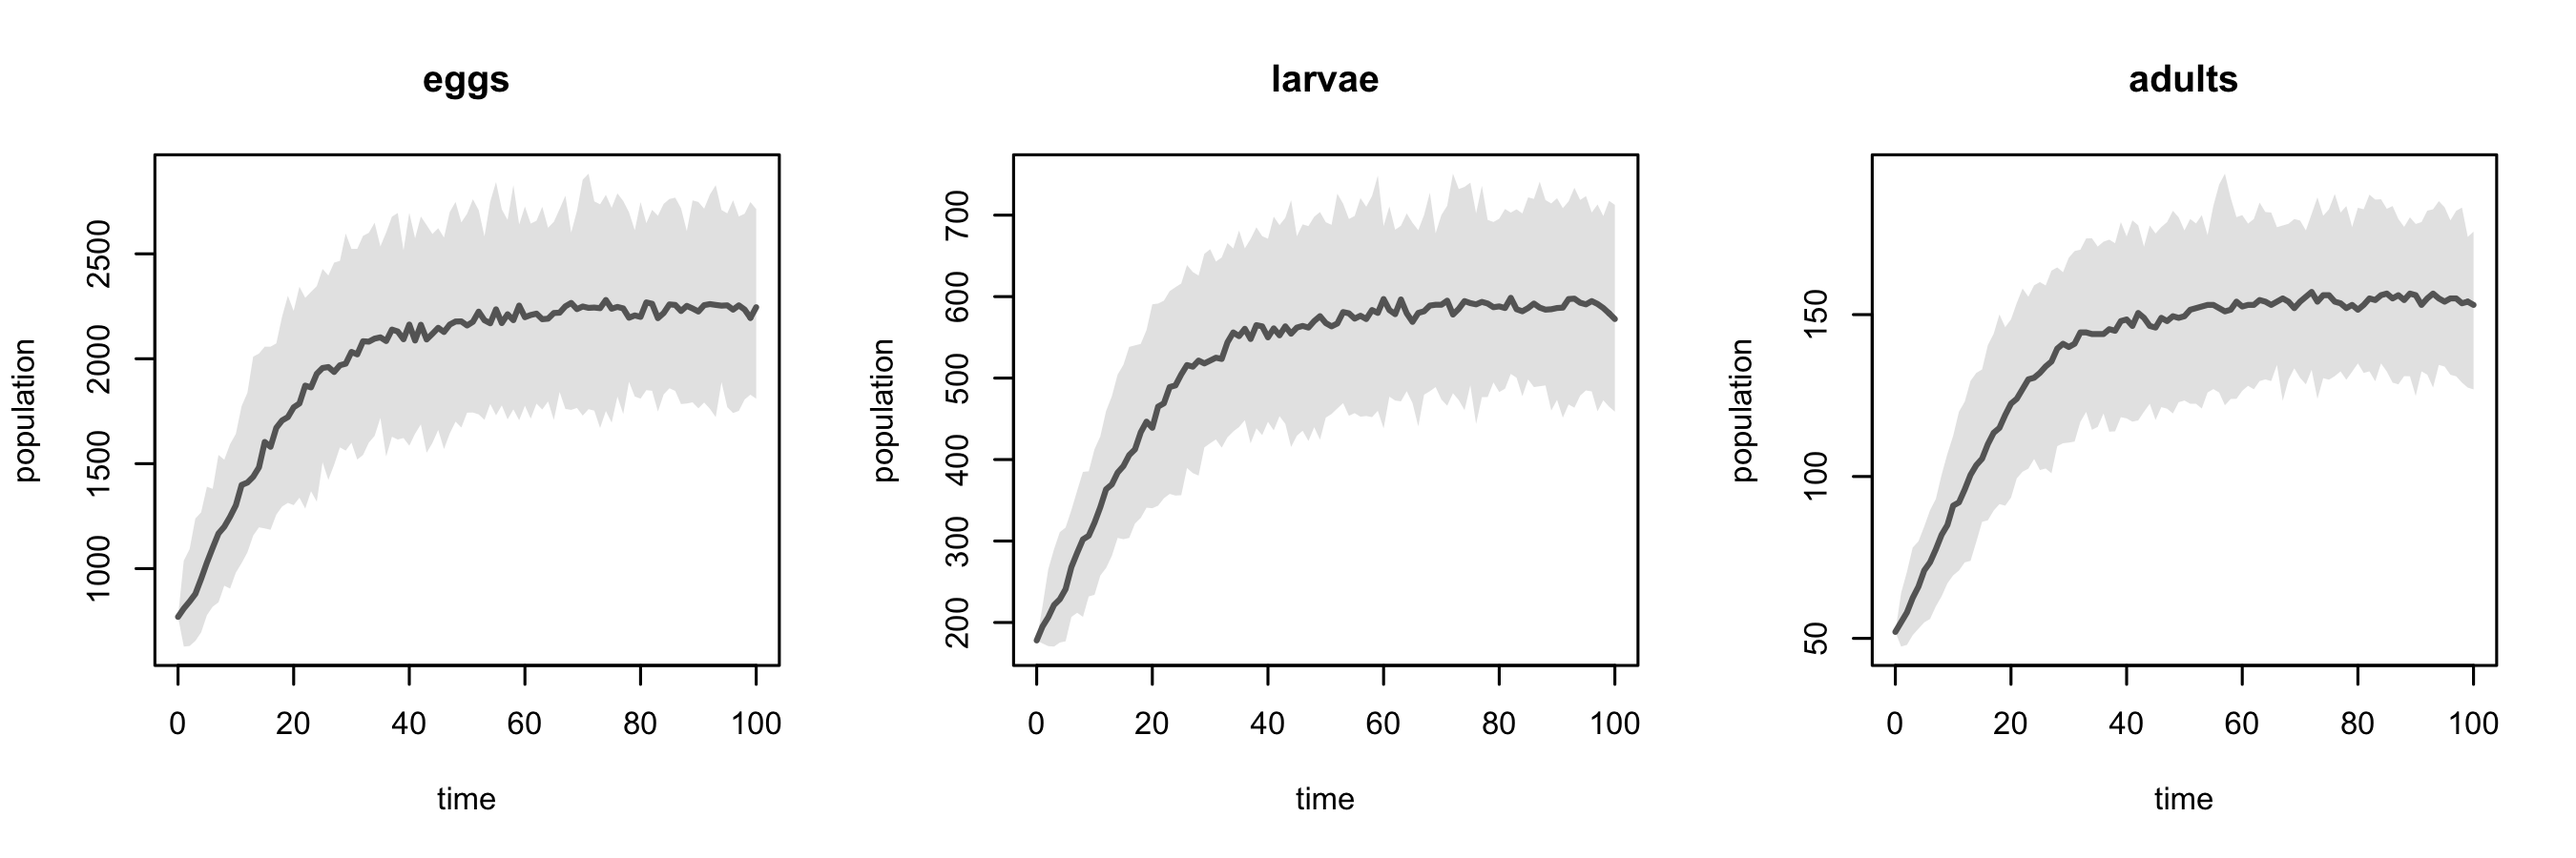
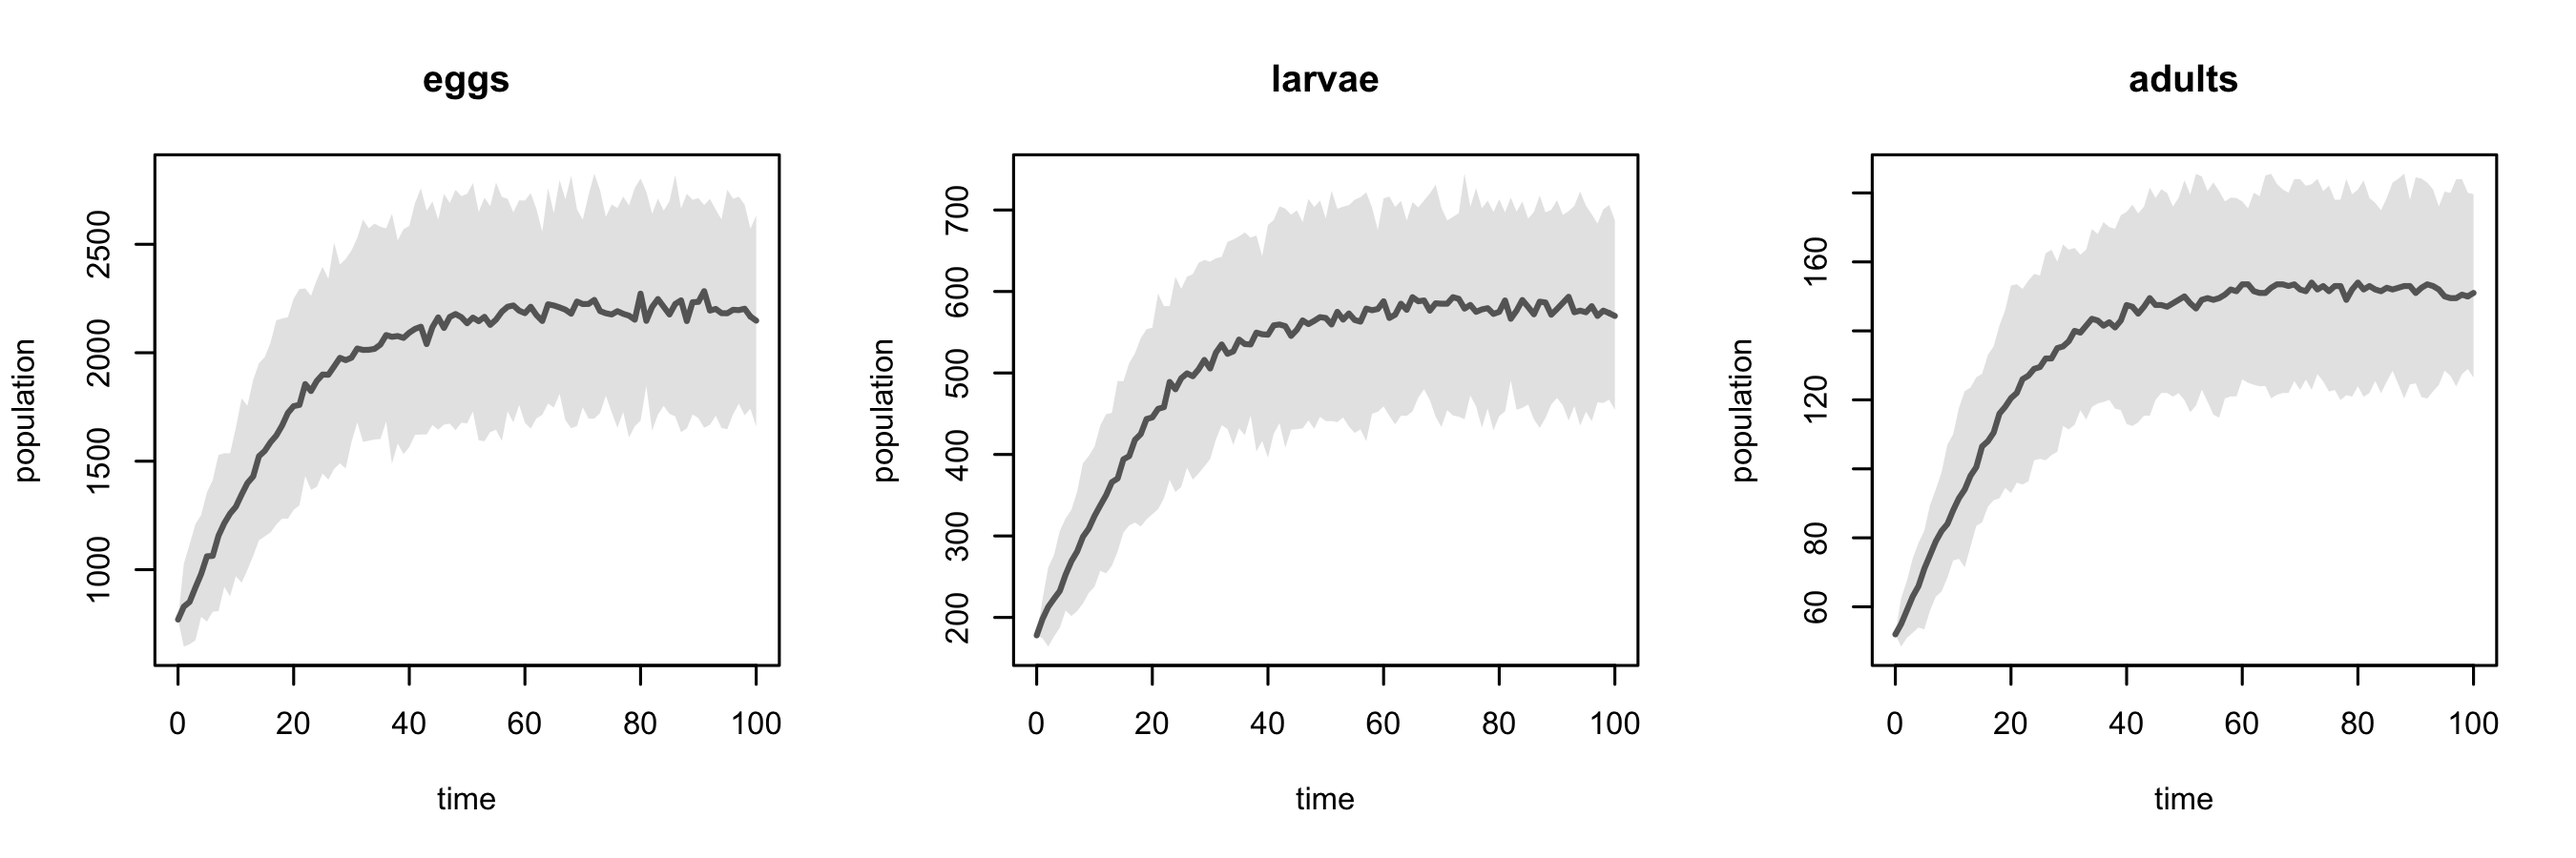
NEVER STOP FIDDLING

diff --git a/readme.md b/readme.md
@@ -76,6 +76,7 @@ all <- dynamic(survival_egg,
                prob_laying * fecundity,
                pupation)
                
+par(mfrow = c(1, 2))
 plot(all)
 ```
 
